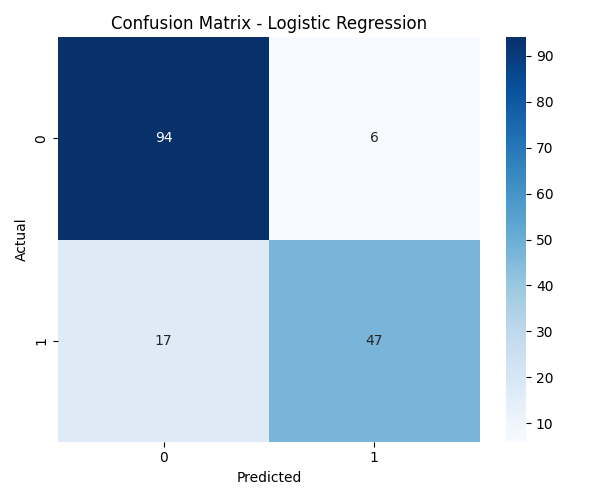
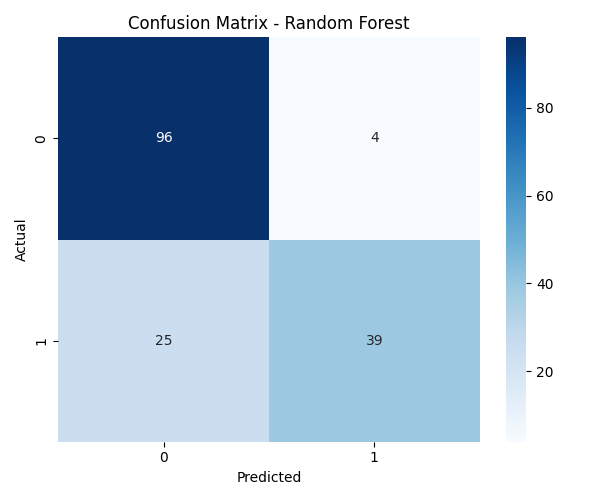
saved best model on the basis of AOC_ROC score

diff --git a/week6/src/training/train.py b/week6/src/training/train.py
@@ -4,14 +4,10 @@ import pickle
 import matplotlib.pyplot as plt
 import seaborn as sns
 from pathlib import Path
-
-# importing ml models 
 from sklearn.linear_model import LogisticRegression
 from sklearn.ensemble import RandomForestClassifier
 from sklearn.neural_network import MLPClassifier
 from xgboost import XGBClassifier
-
-# selecting models
 from sklearn.model_selection import StratifiedKFold, cross_val_score
 from sklearn.metrics import (
     accuracy_score,
@@ -21,7 +17,7 @@ from sklearn.metrics import (
     roc_auc_score,
     confusion_matrix
 )
-# path setup 
+
 PROJECT_ROOT = Path(__file__).resolve().parents[2]
 
 PROCESSED_DIR = PROJECT_ROOT / "src" / "data" / "processed"
@@ -31,7 +27,6 @@ EVAL_DIR = PROJECT_ROOT / "src" / "evaluation"
 MODELS_DIR.mkdir(parents=True, exist_ok=True)
 EVAL_DIR.mkdir(parents=True, exist_ok=True)
 
-# loading data 
 X_train = np.load(PROCESSED_DIR / "X_train.npy")
 X_test = np.load(PROCESSED_DIR / "X_test.npy")
 y_train = np.load(PROCESSED_DIR / "y_train.npy")
@@ -39,7 +34,6 @@ y_test = np.load(PROCESSED_DIR / "y_test.npy")
 
 print("Data loaded successfully")
 
-# defining models 
 models = {
     "Logistic Regression": LogisticRegression(
         max_iter=1000,
@@ -72,7 +66,6 @@ results = {}
 for model_name, model in models.items():
     print(f"\n🔹 Training {model_name}")
 
-    # Cross-validation accuracy
     cv_scores = cross_val_score(
         model,
         X_train,
@@ -80,23 +73,18 @@ for model_name, model in models.items():
         cv=cv,
         scoring="accuracy"
     )
-
     print(f"CV Accuracy: {cv_scores.mean():.4f}")
 
     # Train model on full training data
     model.fit(X_train, y_train)
-
-    # Predictions
     y_pred = model.predict(X_test)
 
-    # Probabilities (needed for ROC-AUC)
     if hasattr(model, "predict_proba"):
         y_proba = model.predict_proba(X_test)[:, 1]
         roc_auc = roc_auc_score(y_test, y_proba)
     else:
         roc_auc = None
 
-    # Metrics
     results[model_name] = {
         "CV_Accuracy": cv_scores.mean(),
         "Accuracy": accuracy_score(y_test, y_pred),
@@ -106,8 +94,8 @@ for model_name, model in models.items():
         "ROC_AUC": roc_auc
     }
 
-# selecting best models on the basis of f1 score 
-best_model_name = max(results, key=lambda x: results[x]["F1_Score"])
+# selecting best models on the basis of ROC_AUC
+best_model_name = max(results, key=lambda x: results[x]["ROC_AUC"])
 best_model = models[best_model_name]
 
 print(f"\nBest Model: {best_model_name}")
